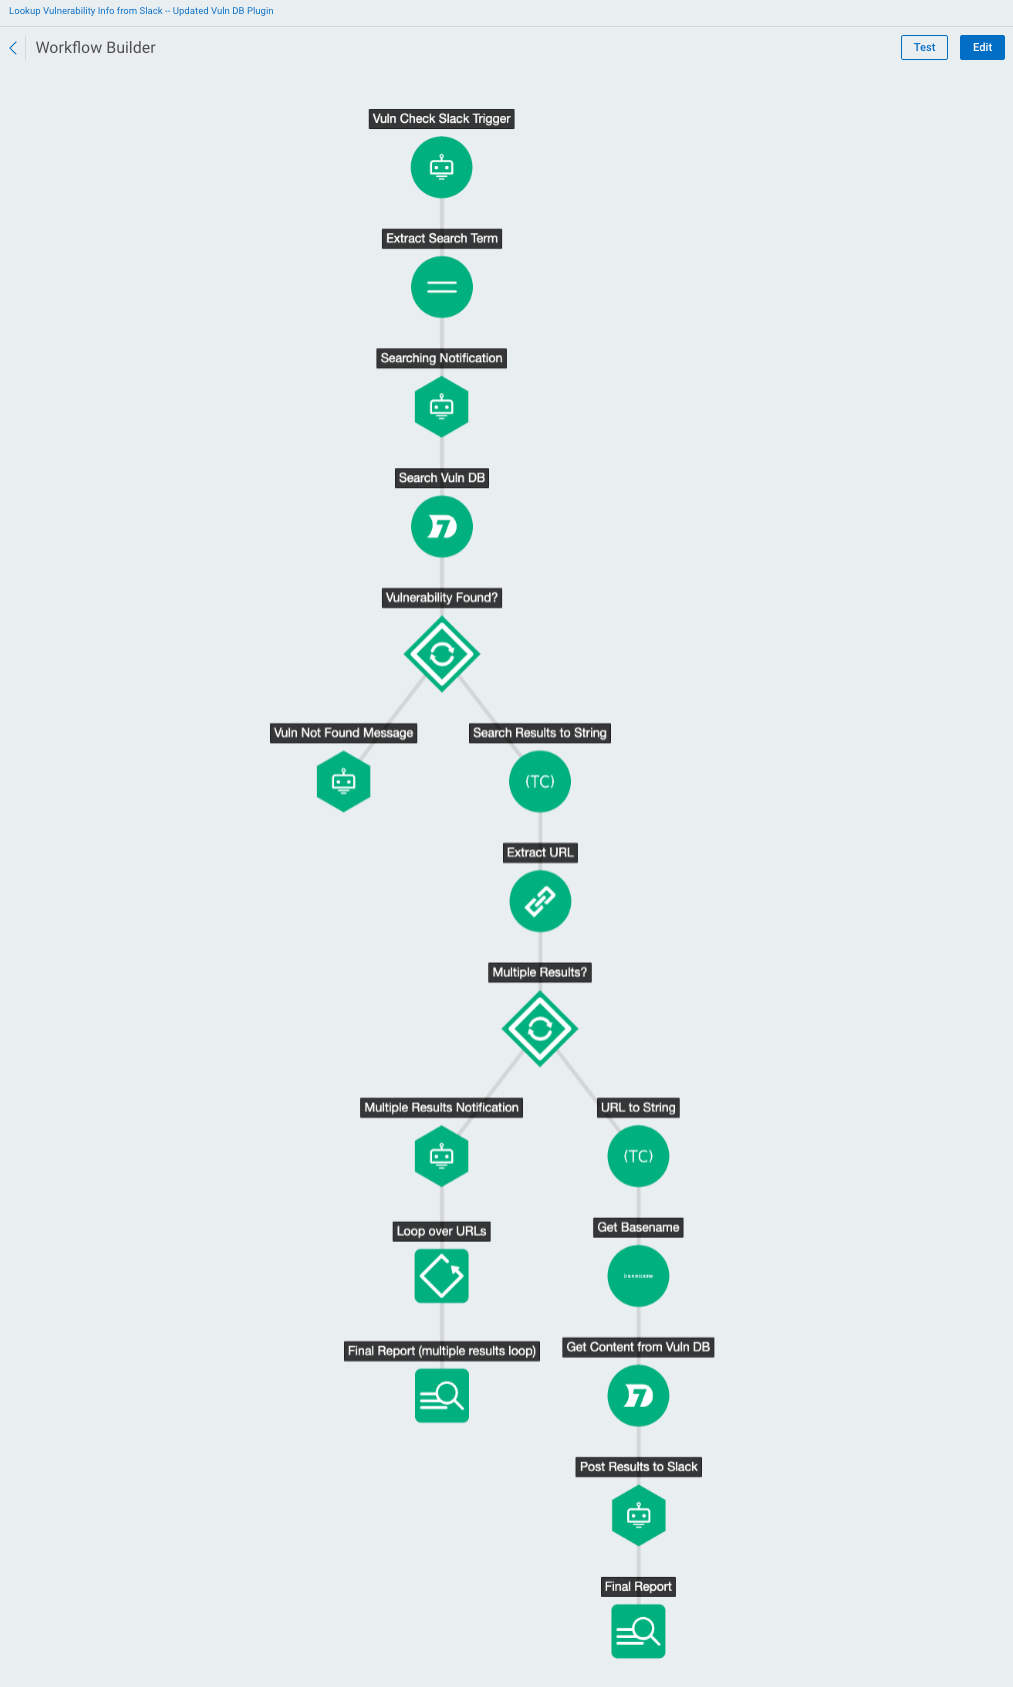
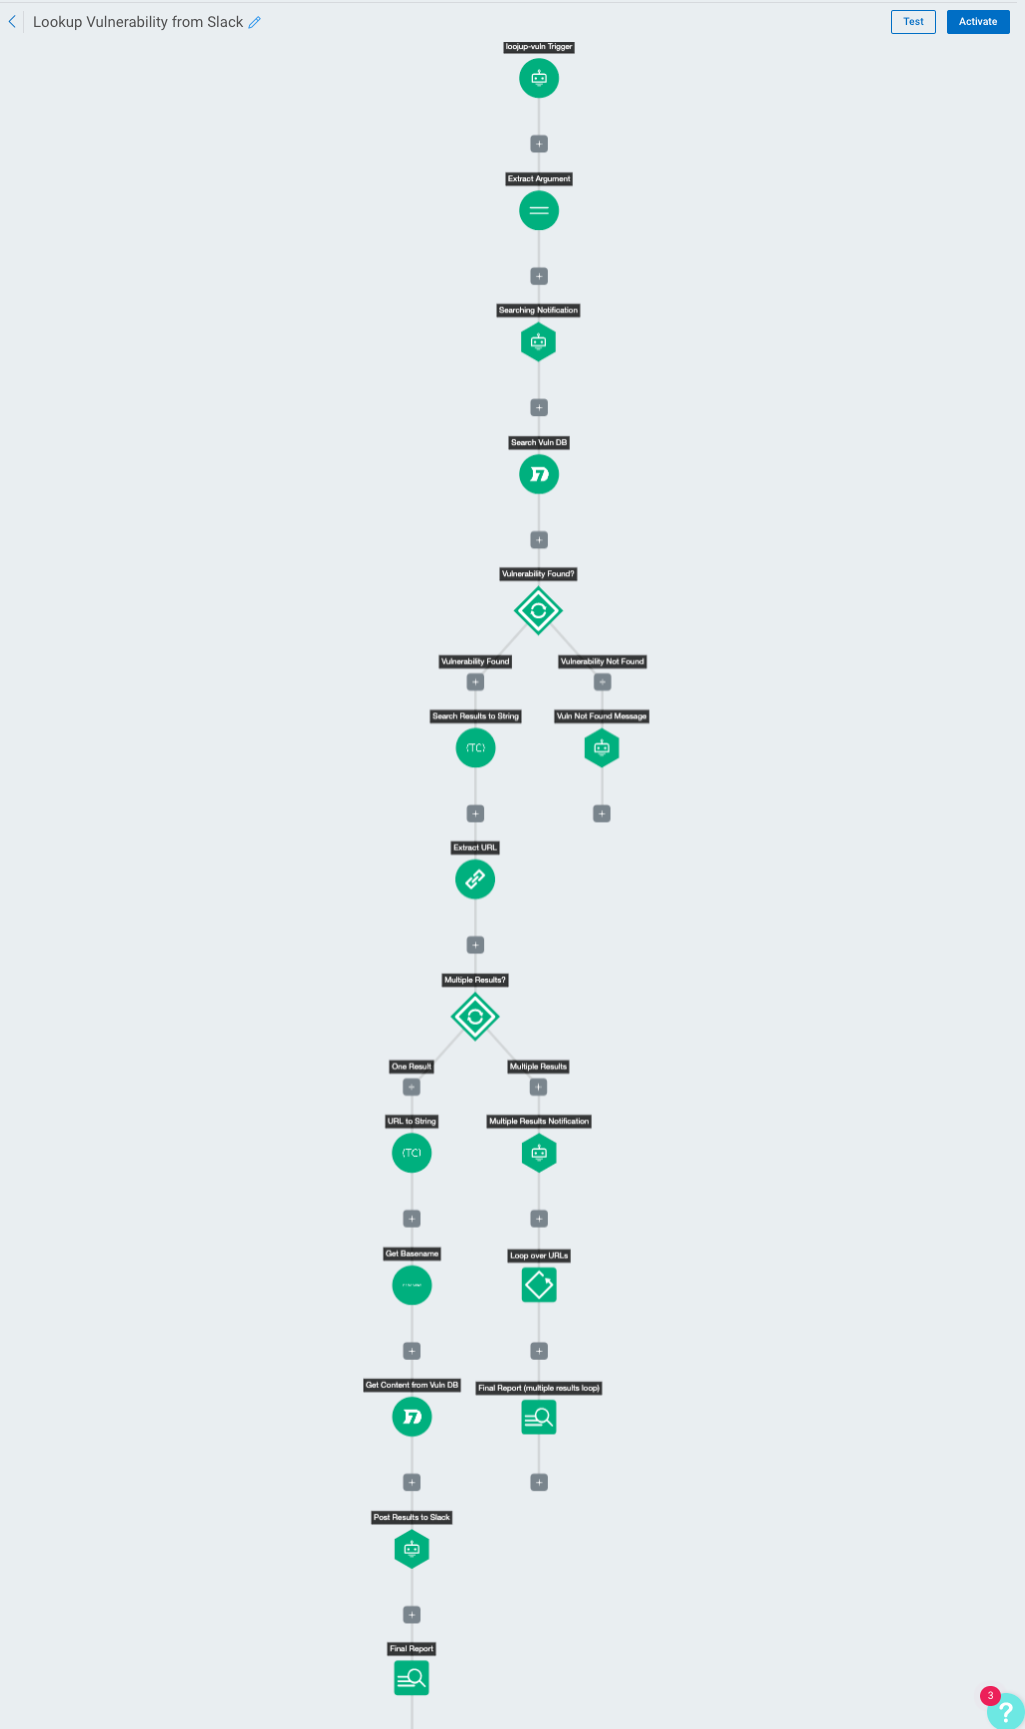
Updated Workflow - Lookup Vuln from Slack
updated workflow, trigger syntax, description, setup, usage, screenshots, and version bump

diff --git a/workflows/Lookup_Vuln_From_Slack/help.md b/workflows/Lookup_Vuln_From_Slack/help.md
@@ -1,15 +1,6 @@
 # Description
 
-This workflow accepts a Slack command containing a CVE ID or vulnerability keyword(s), looks up the vulnerability in Rapid7's vulnerability database, and posts the vulnerability details back to the same Slack channel.
-
-Sample Slack Trigger Commands:
-
-`@Slackbot vuln check CVE-2020-0674`
-
-`@Slackbot vuln check heartbleed`
-
-`@Slackbot vuln check heartbleed vmware`
-
+Lookup a vulnerability to receive an overview, including risk, publish date, description, and solutions for remediation. This workflow helps teams share vulnerability intelligence through shared Slack channels.
 
 # Key Features
 
@@ -26,9 +17,21 @@ Sample Slack Trigger Commands:
 
 ## Setup
 
-Once the workflow has been imported, edit the workflow and setup or select your Slack connection in the _Vuln Check Slack Trigger_ step, the _Searching Notification_ step, the _Post to Slack_ step, and the _Post to Slack (multiple results loop)_ step inside the _Loop over URLs_ loop.
+Import the workflow from the Rapid7 Extension Library and proceed through the Import Workflow wizard in InsightConnect. Import plugins, create or select connections, and rename the workflow as a part of the Import Workflow wizard as necessary.
 
-To run the workflow, @ your Slackbot in any channel or in a direct message along with the command "vuln check <vulnerability>". The workflow will post responses in a thread.
+After import, activate the workflow in order to trigger it.
+
+## Usage
+
+*This workflow will trigger in any direct messages to your Chatbot **or** any message in a channel directed @ your Chatbot. Note the Chatbot must be in the channel in order to trigger the workflow this way.*
+
+To run the workflow, send a direct message to your InsightConnect Slack Chatbot or @ your Chatbot in a public channel starting with the command `lookup-vuln`.
+
+For example, in a direct message to your Chatbot:
+* `lookup-vuln CVE-2020-0674`
+
+Or in a channel including your Chatbot:
+* `@Rapid7 InsightConnect lookup-vuln bluekeep`
 
 ## Technical Details
 
@@ -36,9 +39,9 @@ Plugins utilized by workflow:
 
 |Plugin|Version|Count|
 |----|----|--------|
-|Rapid7 Vulnerability & Exploit Database|2.0.2|1|
-|Type Converter|1.5.1|1|
-|Basename|1.0.1|1|
+|Rapid7 Vulnerability & Exploit Database|2.0.3|3|
+|Type Converter|1.5.1|2|
+|Basename|1.0.1|2|
 |URL Extractor|1.0.3|1|
 
 ## Troubleshooting
@@ -47,6 +50,7 @@ _There is no troubleshooting information at this time_
 
 # Version History
 
+* 1.1.3 - Updated trigger syntax, updated Rapid7 Vuln DB plugin, updated documentation
 * 1.1.2 - Updated documentation
 * 1.1.1 - Updated plugin versions in help.md
 * 1.1.0 - Updated workflow to work with v2.0.2 of the Rapid7 Vulnerability & Exploit Database plugin | Added a Final Report workflow artifact including a summary of workflow results
